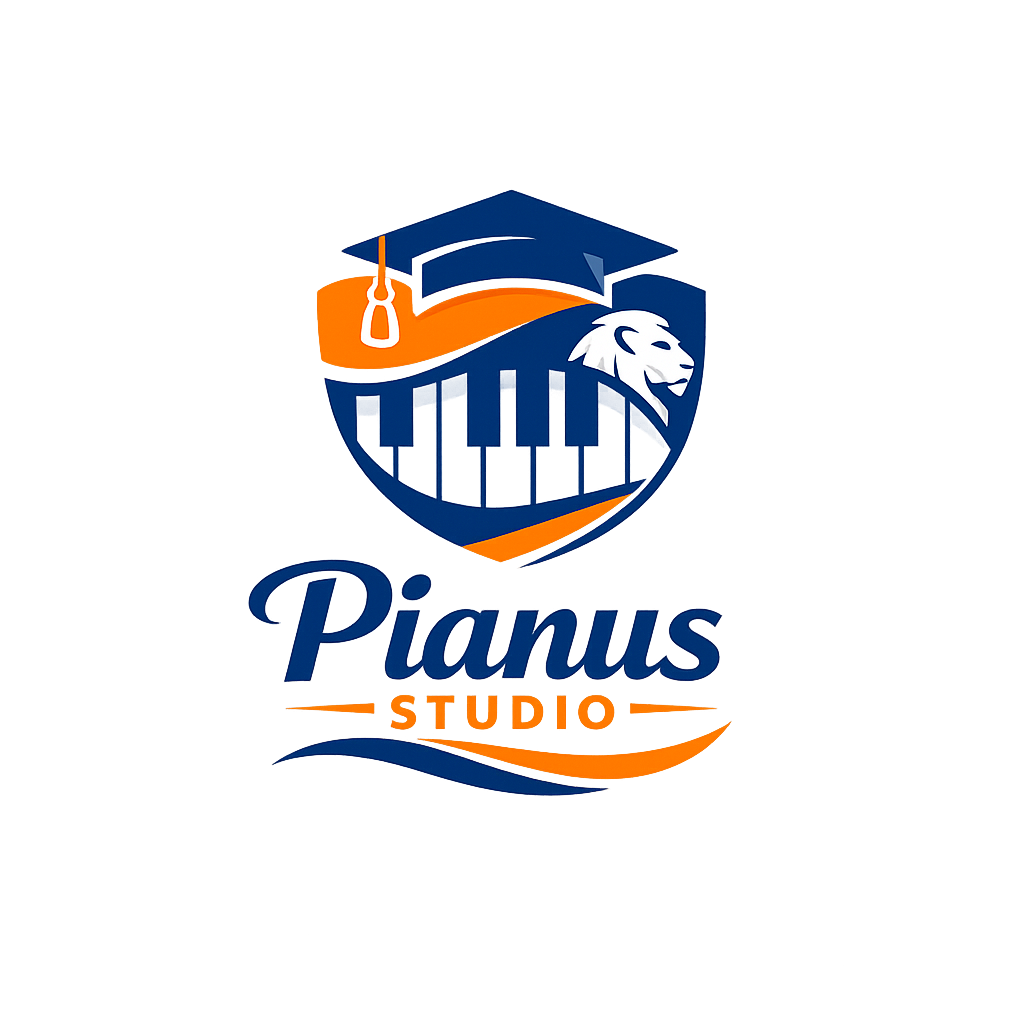
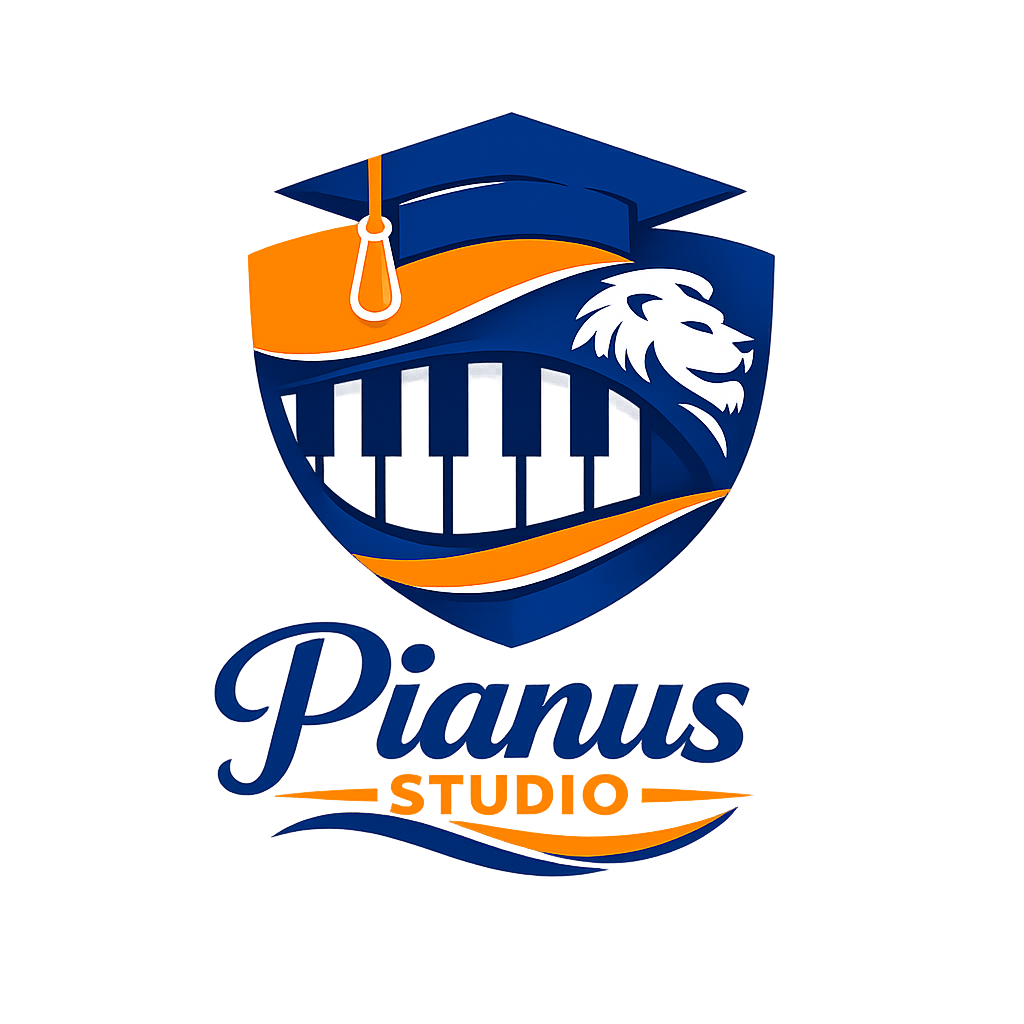
Redesigned P1 page and Piano Simulator Page.

Changed region(s): [[0.1875, 0.0938, 0.7812, 0.875]]

diff --git a/pianus-studio/src/styles/Piano.css b/pianus-studio/src/styles/Piano.css
@@ -111,30 +111,58 @@ body {
     background-position: top;
     background-repeat: no-repeat;
     background-attachment: fixed; 
-    height: 100vh;
+    height: 150vh;
 }
 
 .piano-wrapper {
-    display: flex;
-    flex-direction: column;
+    display: block;
     align-items: center;
     justify-content: center;
+}
+
+.title-wrapper {
+    position: relative;
+}
+
+.piano-wrapper h1 {
+    position: relative;
+    color: #ecb80c;
+    font-family: 'Amadeus', cursive;
+    top: 0px;
+    padding-bottom: 0px;
+}
+
+.piano-wrapper img { 
+    top: 10px;
+    left: 380px; 
+    max-height: 120px;
+    padding-bottom: 0px;
+    background-color: #a7ad4ea2;
+    width: 120px;
+    height: 120px;
+    overflow: hidden;
+    object-fit: cover;
+    object-position: center;
+    border-radius: 10px;
 }
 
 .return-button {
     display: flex;
     display: inline-block;
-    width: 50px;
+    width: 60px;
     height: 30px;
     margin-left: 20px;
     margin-right:70px;
     margin-top: 15px;
-    padding: 3px 5px;
     background: #e7a53c;
     border-radius: 4px;
     justify-content: center;
     background-color: #df9e12;
-    font-size: 16px;
+    color: #100b4d;
+    font-family: 'Amadeus', cursive;
+    font-weight: 600;
+    font-size: 14px;
+    cursor: pointer;
 }
 
 .return-button:hover {
@@ -150,6 +178,9 @@ body {
 }
 
 .play-button {
+    position: relative;
+    top: 230px;
+    right: 10px;
     display: flex;
     display: inline-block;
     width: 50px;
@@ -163,6 +194,7 @@ body {
     justify-content: center;
     background-color: #df9e12;
     font-size: 16px;
+    cursor: pointer;
 }
 
 .play-button:hover {

diff --git a/pianus-studio/src/webpages/Library.jsx b/pianus-studio/src/webpages/Library.jsx
@@ -1,0 +1,22 @@
+import '../styles/Library.css'
+import { useNavigate } from 'react-router-dom'
+
+
+export default function Library() {
+    const navigate = useNavigate()
+    const goToP1 = () => navigate('/lessons')
+
+
+    return (
+        <div className= 'library-wrapper'>
+            <h1>🎹 Welcome to our music library!</h1>
+            <p>These are famous music pieces played and recorded by our pianist on the website! Join us and create your own pieces here! More pieces coming soon... </p>
+            <div>
+                <h2>Twinkle Twinkle Little Star</h2>
+                <p>A beginner-friendly song that every pianist knows of!</p>
+                <p>Author: Dao Quang Linh</p>
+                <button onClick={goToP1}>View Here</button>
+            </div>
+        </div>
+    )
+}

diff --git a/pianus-studio/src/webpages/Lessons.jsx b/pianus-studio/src/webpages/Lessons.jsx
@@ -2,12 +2,16 @@ import { useEffect, useRef, useState } from "react";
 import * as Tone from "tone";
 import "../styles/Piano.css";
 import "../styles/Synthesia.css";
-import { Link } from "react-router-dom";
+import { Link, useNavigate } from "react-router-dom";
 import { Note, Notes } from "../components/Note.jsx";
 import { addEffect } from "../components/addEffect.jsx";
 import { P1 } from "../components/PianoPieces/P1.jsx";
 
 export default function PianoSimulator() {
+  const navigate = useNavigate();
+  const goBack = () => {
+    navigate(-1);
+  }
   const KeyMap = {};
   for (let i = 0; i < Notes.length; i++) {
     if (Notes[i].key.length === 1) KeyMap[Notes[i].key] = Notes[i];
@@ -20,11 +24,16 @@ export default function PianoSimulator() {
   addEffect(KeyMap, synthRef, barsRef, rafRef, setDisplayBars);
 
   return (
-    <div className="piano-container">
-      <div className="return-button">
-        <Link to="/">Return</Link>
-      </div>
+    <div className="piano-container" style={{backgroundImage: "url('/P1.jpg')"}}>
+      <button className="return-button" onClick={goBack}>
+        Return
+      </button>
       <div className="piano-wrapper">
+        <div>
+        <img src="/PianusStudio.png" style={{background: '#517edfbc'}} />
+        <h1>⭐Twinkle Twinkle Little Star⭐</h1>
+        <p style={{color: '#e7a53c', fontFamily: 'Dancing Script'}}>By Dao Quang Linh</p>
+        </div>
         <div className="synthesia-container">
           {displayBars.map(b => (
             <div

diff --git a/pianus-studio/src/styles/Library.css b/pianus-studio/src/styles/Library.css
@@ -1,0 +1,8 @@
+.library-wrapper {
+    height: 150vh;
+    background-image: url('/LibraryBackGround.jpg');
+    background-size: cover;
+    background-position: top;
+    background-repeat: no-repeat;
+    background-attachment: fixed; 
+}

diff --git a/pianus-studio/src/webpages/Home.jsx b/pianus-studio/src/webpages/Home.jsx
@@ -99,7 +99,7 @@ export default function HomePage() {
         <Link to="/about">About Us</Link>
         <Link to="/piano-simulator">Piano Simulator</Link>
         <Link to="/lessons">Lessons</Link>
-        <Link to="/sheet-music">Sheet Music</Link>
+        <Link to="/library">Music Library</Link>
         <Link to="/practice-tools">Practice Tools</Link>
         <Link to="/community">Community</Link>
         <Link to="/contact">Contact Us</Link>
@@ -119,9 +119,9 @@ export default function HomePage() {
                 <Link to="/lessons">Go to Lessons</Link>
             </div>
             <div className="feature-card">
-              <h3>Sheet Music Library</h3>
-              <p>Access classical and modern sheet music.</p>
-              <Link to="/sheet-music">Browse Library</Link>
+              <h3>Music Library</h3>
+              <p>Access classical and modern music pieces.</p>
+              <Link to="/library">Browse Library</Link>
             </div>
             <div className="feature-card">
               <h3>Practice Tools</h3>

diff --git a/pianus-studio/src/App.jsx b/pianus-studio/src/App.jsx
@@ -1,7 +1,8 @@
 import { Routes, Route } from "react-router-dom";
 import HomePage from "./webpages/Home.jsx";
-import PianoSimulator from "./webpages/PianoSimulator.jsx";
+import Piano from "./webpages/PianoSimulator.jsx";
 import Lessons from "./webpages/Lessons.jsx";
+import Library from "./webpages/Library.jsx";
 import AboutUsPage from "./webpages/AboutUs.jsx";
 import ContactUsPage from "./webpages/ContactUs.jsx";
 import LoginPage from "./webpages/Login.jsx";
@@ -11,6 +12,8 @@ import UpdatePassword from "./webpages/UpdatePassword.jsx";
 export default function App() {
   return (
     <Routes>
+      <Route path="/library"        element={<Library />} />
+      <Route path="/lessons"        element={<Lessons />} />
       <Route path="/update-password" element={<UpdatePassword />} />
       <Route path="/signup"            element={<SignupPage />} />
       <Route path="/about"              element={<AboutUsPage />} />

diff --git a/pianus-studio/src/webpages/PianoSimulator.jsx b/pianus-studio/src/webpages/PianoSimulator.jsx
@@ -24,6 +24,10 @@ export default function PianoSimulator() {
         <Link to="/">Return</Link>
       </div>
       <div className="piano-wrapper">
+        <div>
+        <img src="/PianusStudio.png"/>
+        <h1>Piano Simulator</h1>
+        </div>
         <div className="synthesia-container">
           {displayBars.map(b => (
             <div

diff --git a/pianus-studio/src/styles/Synthesia.css b/pianus-studio/src/styles/Synthesia.css
@@ -5,6 +5,7 @@
     overflow: hidden;
     background: #0d0a04;
     border-bottom: 2px solid #2a1560;
+    z-index: 1;
 }
 
 .synthesia-bar {